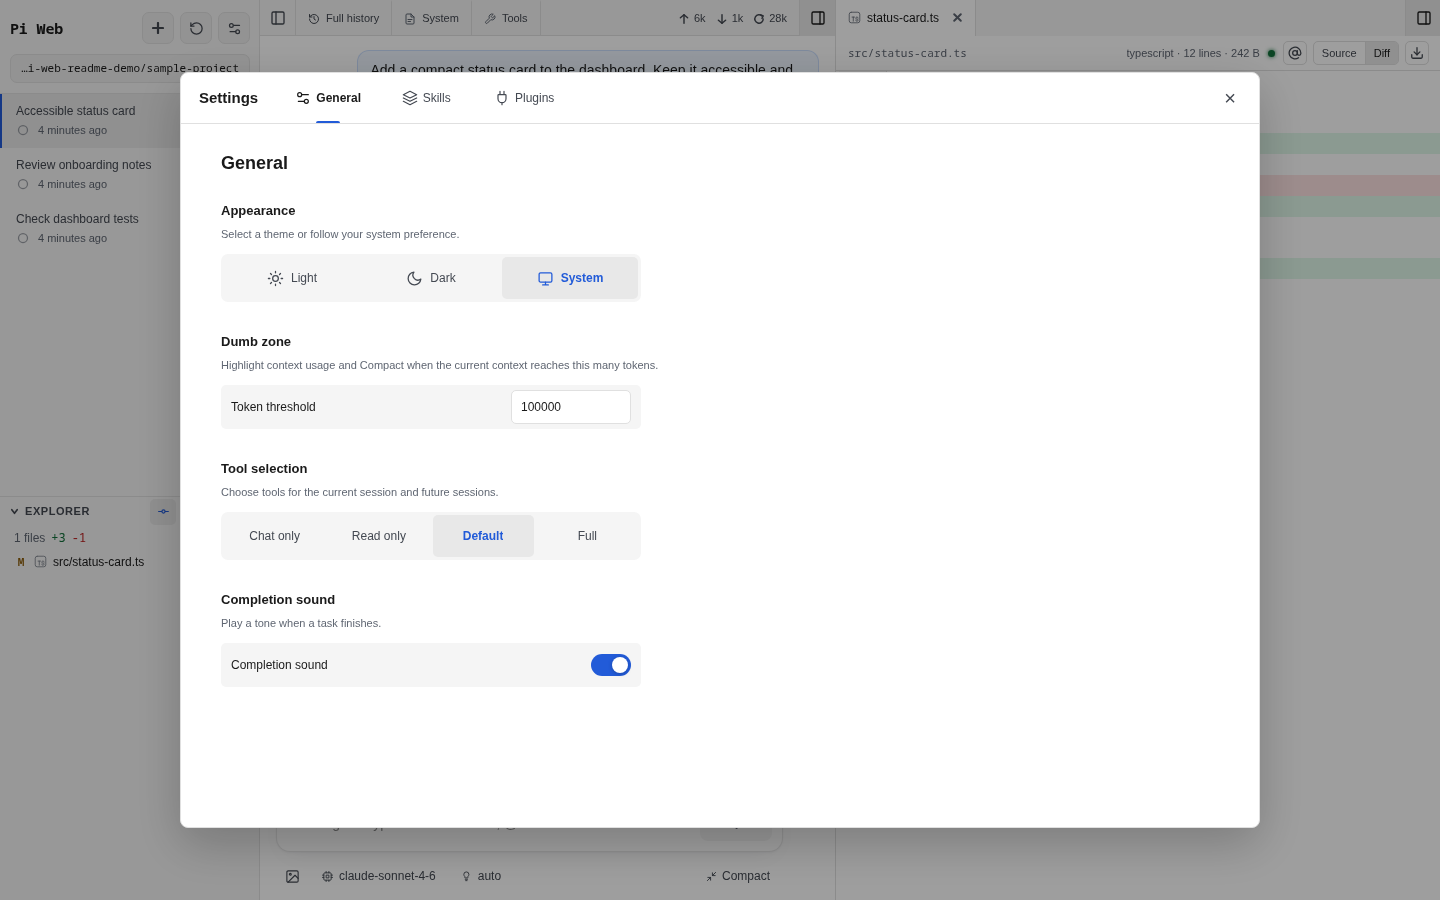
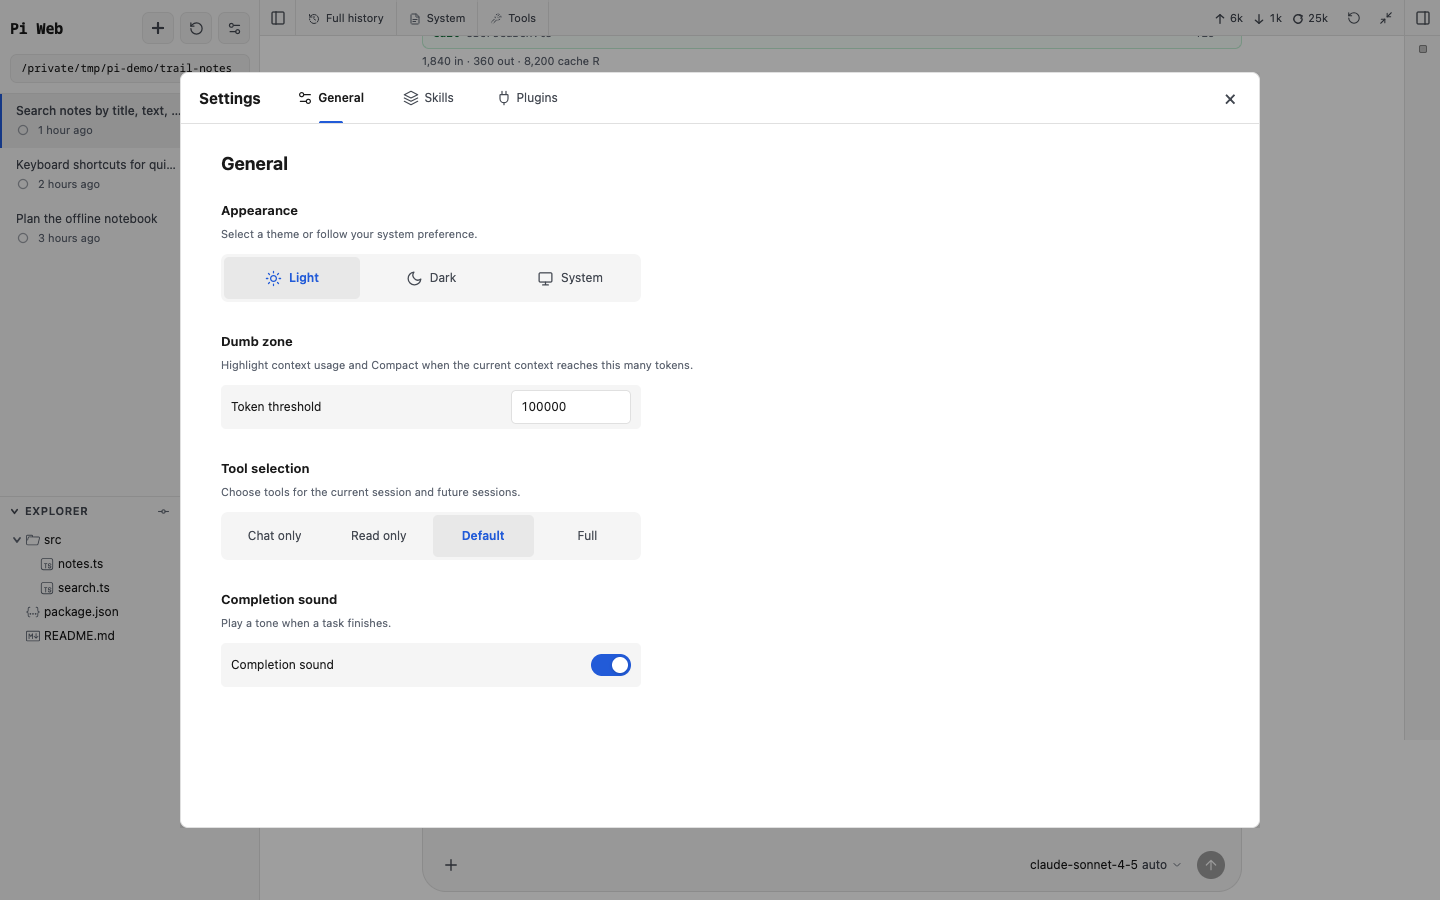
Refresh README pitch and UI screenshots

diff --git a/README.md b/README.md
@@ -1,38 +1,43 @@
 # Pi Web
 
-Pi Web is a local browser interface for the [Pi coding agent](https://github.com/earendil-works/pi). It works with the Pi configuration and sessions already on your computer, so you can move between the terminal and browser without maintaining a second set of conversations or settings.
+**A local workspace for Pi, built for clarity and responsiveness.**
 
-This repository is a personalized fork of [agegr/pi-web](https://github.com/agegr/pi-web). It follows its maintainer's workflow and is not intended to stay compatible with upstream.
+Pi Web puts your [Pi coding agent](https://github.com/earendil-works/pi) conversations, project files, and changes in one browser window. Follow the agent's work, inspect a diff beside its explanation, and pick up an existing session. It uses the Pi configuration and session files already on your computer, so you can move between the terminal and browser without importing conversations or maintaining a second set of settings.
 
-![A Pi Web session with its history, project files, reasoning, tool calls, and final response](./docs/images/session-tools.png)
+![Pi Web in dark mode, with session history, agent tool calls, and a working-tree diff beside the conversation](./docs/images/file-diff.png)
+
+*Review the change beside the conversation. Screenshots show the current UI with fictional demo sessions in a local example project.*
+
+## Why Pi Web
+
+- **Little magic.** Pi's session files stay authoritative. Live turns run through Pi's SDK in the server process, and tools and orchestration come from Pi and your extensions. The browser gives you access to that work without adding another agent system.
+- **Care in the details.** Process details fold away when you want the answer. Tool output, diffs, and subagent results have their own views. Model and reasoning controls sit in the composer; history, context, and files stay within reach.
+- **Work only when needed.** Browsing saved sessions does not start an agent. The session list reads bounded metadata, conversation history loads progressively, and live updates stream to the browser. This avoids agent startup just to browse and limits how much history the browser has to render at once.
+
+This is a personalized fork of [agegr/pi-web](https://github.com/agegr/pi-web), shaped around its maintainer's daily workflow. It is not intended to stay compatible with upstream.
 
 ## What you can do
 
-- Browse, resume, rename, export, fork, clone, and delete Pi sessions. Branch history stays navigable, and sessions from the same repository stay together.
+- Browse, resume, rename, export, fork, clone, and delete Pi sessions. Rewind a conversation to an earlier message or explore its full history. Sessions from the same repository stay together.
 - Run agent turns with model, reasoning-level, and tool controls. You can steer work in progress, queue a follow-up, compact context, stop a run, attach images, and use slash commands.
-- Read the result without losing the process. Pi Web renders assistant messages, reasoning, tool calls, command output, file changes, token usage, context, and active time.
+- Read the result without losing the process. Expand reasoning, tool calls, command output, and subagent results, with token usage, context, and active time available alongside them.
 - Work with project files beside the conversation. Browse or upload files, preview common source and document formats, inspect Git changes, and insert file or line references into the composer.
 - Select existing working folders and Git worktrees from one project picker. A session remains readable even if its original folder no longer exists.
 - Manage Pi skills and plugin packages for the global scope or a trusted project. Choose between Chat only, Read only, Default, and Full tool presets.
 - Install Pi Web as a PWA and receive browser notifications when a task finishes or an extension needs input.
 
-![A session beside the project explorer and a working-tree diff](./docs/images/file-diff.png)
+![Expanded subagent review with completion status, formatted results, and disclosures for the prompt, run details, and raw data](./docs/images/session-tools.png)
 
-*Open a changed file from the Explorer to review its diff without leaving the session.*
+*Inspect a subagent's result, then open its prompt, run details, or raw output. Subagent tools come from your installed Pi extensions.*
 
-![Pi Web settings for appearance, context warnings, tool selection, skills, and plugins](./docs/images/settings.png)
+<details>
+<summary>Appearance and settings</summary>
+
+![Pi Web in light mode with appearance, context-warning threshold, tool presets, and completion sound settings](./docs/images/settings.png)
 
 *Settings keep common controls together; project skills and plugins load only after you trust the project.*
 
-## What Pi Web does not manage
-
-Pi Web is a client for Pi and your existing working folders, not a replacement for either one.
-
-- **Git worktrees and branches:** Pi Web discovers existing worktrees and switches between their folders. It does not create, delete, prune, or change branches in a worktree. Use Git or another worktree tool for those operations. See [Worktrees in Pi Web](./docs/worktrees.md).
-- **Provider accounts and model configuration:** Sign in, add API keys, and edit provider or model metadata in the Pi terminal. Pi Web does not read, write, or serve credentials; it lists the models made available by Pi and lets you select one for a session.
-- **Remote access control:** Pi Web has no user accounts, login screen, or built-in authentication. The default loopback address is intended for local use. Protect any non-loopback deployment with a trusted network or an external security layer.
-- **A separate subagent system:** This fork does not add its own subagent runtime or profile editor. Agent tools and orchestration come from Pi and the extensions you install.
-- **Updates:** Pi Web does not update itself or Pi from the browser. Pull the checkout and update your host Pi installation with their normal tools, then restart Pi Web.
+</details>
 
 ## Get started
 
@@ -71,6 +76,13 @@ npm install
 
 Then restart the development server, or rebuild before starting the production server. The Pi packages installed with the checkout are build-time dependencies; both modes still use the host Pi selected from `PATH`.
 
+## What stays with Pi and Git
+
+- **Worktrees and branches:** Pi Web discovers existing worktrees and switches between their folders. It does not create, delete, prune, or change branches in a worktree. Use Git or another worktree tool for those operations. See [Worktrees in Pi Web](./docs/worktrees.md).
+- **Provider accounts and model configuration:** Sign in, add API keys, and edit provider or model metadata in the Pi terminal. Pi Web does not read, write, or serve credentials; it lists the models made available by Pi and lets you select one for a session.
+- **Agent extensions:** Tools and subagent orchestration come from Pi and the extensions you install. This fork does not add a separate subagent runtime or profile editor.
+- **Updates:** Update the checkout and your host Pi installation with their normal tools, then restart Pi Web. There is no browser-based updater.
+
 ## Data, files, and network access
 
 - Pi Web reads Pi data from `~/.pi/agent` by default. Set `PI_CODING_AGENT_DIR` before startup to use another agent directory.
@@ -83,7 +95,7 @@ Checkout scripts, including the explicit LAN variants, are listed in [`package.j
 
 ## Security
 
-Pi Web can run agent tools and project commands. It does not restrict request Host or Origin headers. Keep the default `127.0.0.1` binding unless you have a trusted network or an external access-control layer.
+Pi Web can run agent tools and project commands. It has no user accounts, login screen, or built-in authentication, and does not restrict request Host or Origin headers. Keep the default `127.0.0.1` binding unless you have a trusted network or an external access-control layer.
 
 Project resources can run local code. Pi Web leaves project extensions, skills, and other trust-requiring resources disabled until you trust the project. Trust only repositories you control or have reviewed.
 
